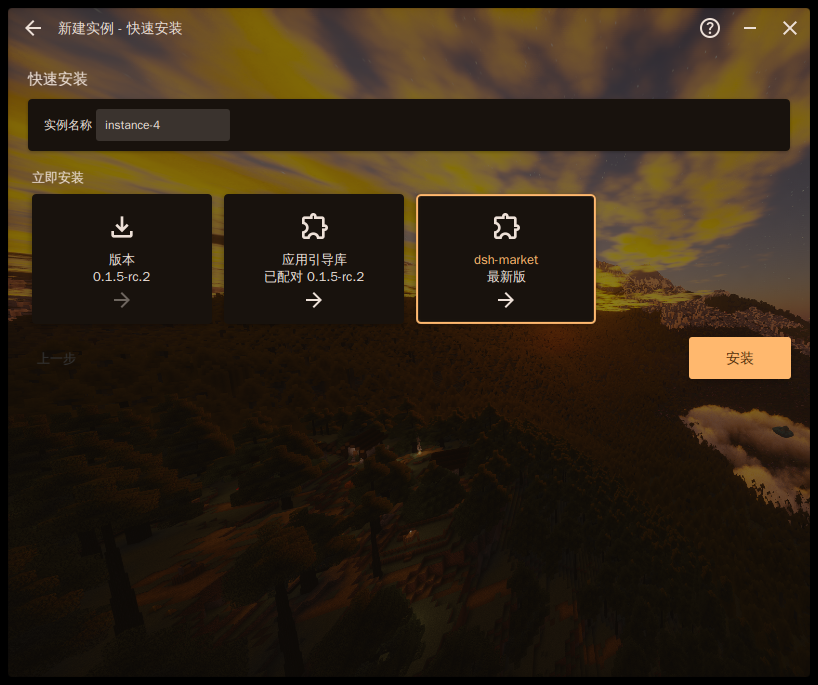
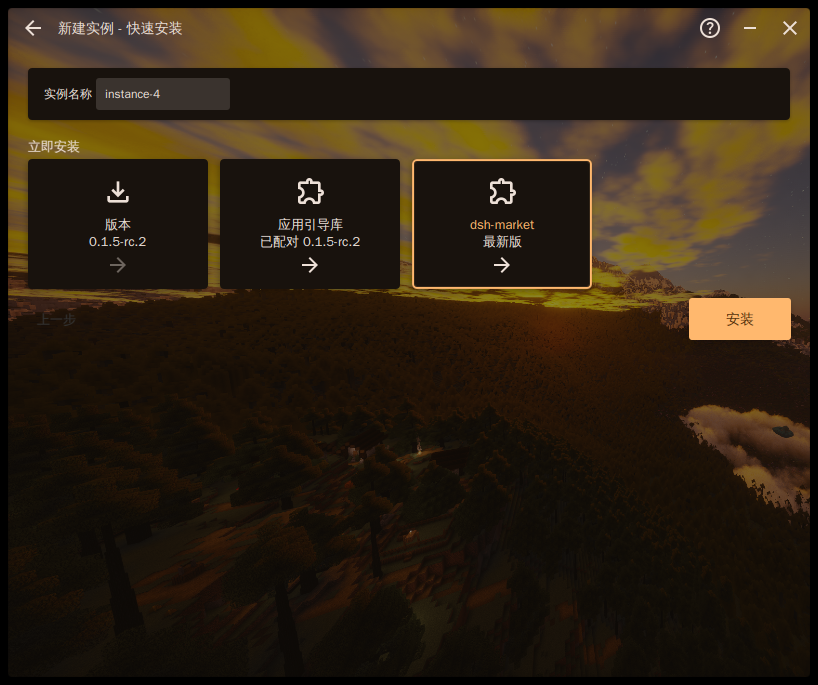
Sweep the inline styles, and remove a heading the original does not have
Seven setStyle calls, checked against the original one at a time.

Two of them are the original's, word for word: the launch pane's labels at
sixteen and twelve, and the runtime badge's background, radius and size. Those
stay.

The wizard pages' headings do not. The original's install pages have no heading
of their own — the window's title bar names the step, and the page begins with
its first control. A fifteen-pixel bold label above it said the same thing a
second time in a style chosen here. Two are gone, and the third, on the preset
chooser, names the preset rather than the step and stays.

The preset section's heading was a label styled bold with its own padding. The
original has a mechanism for a section heading, and a hand-styled label matches
its size, colour and padding only approximately. It uses the mechanism now.

Checked: the create page opens with its name row, the section heading above the
cards is the same one the settings pages use, and nothing else on the page is
styled inline.

Changed region(s): [[0.0306, 0.092, 0.978, 0.4905], [0.8252, 0.4292, 0.978, 0.5518]]

diff --git a/src/main/java/org/jackhuang/hmcl/ui/dsh/install/QuickInstallPage.java b/src/main/java/org/jackhuang/hmcl/ui/dsh/install/QuickInstallPage.java
@@ -113,14 +113,12 @@ public final class QuickInstallPage extends ScrollPane implements WizardPage {
         setContent(root);
         FXUtils.smoothScrolling(this);
 
-        Label title = new Label(i18n("dsh.install.step.quick"));
-        title.setStyle("-fx-font-size: 15px; -fx-font-weight: bold;");
-
         // Seed the recommendations before the cards are built, so they render
         // the same state the wizard will install.
         seedDefaultChoices();
 
-        root.getChildren().addAll(title, buildInstanceList(), buildPresetList(), buildFooter());
+        // No in-page heading: the window's title bar names the step.
+        root.getChildren().addAll(buildInstanceList(), buildPresetList(), buildFooter());
         VBox.setVgrow(root, Priority.ALWAYS);
 
         applyDefaults();
@@ -315,14 +313,16 @@ public final class QuickInstallPage extends ScrollPane implements WizardPage {
     ///
     /// @return the assembled section
     private VBox buildPresetList() {
-        Label header = new Label(i18n("dsh.install.presets"));
-        header.setStyle("-fx-font-weight: bold;");
-        header.setPadding(new Insets(8, 0, 0, 4));
+        // The original's section heading, not a label styled to look like one:
+        // the class carries the size, colour and padding the interface uses for
+        // a heading, and a hand-styled label matches none of them exactly.
+        Node header = ComponentList.createComponentListTitle(i18n("dsh.install.presets"));
 
+        // Cards sit twelve apart with nothing around the grid; the surrounding
+        // spacing is the page's, not the grid's.
         FlowPane grid = new FlowPane();
         grid.setHgap(12);
         grid.setVgap(12);
-        grid.setPadding(new Insets(4));
 
         Map<String, String> choices = choices();
         // The version leads the grid, as the game does in the original. It is

diff --git a/src/main/java/org/jackhuang/hmcl/ui/dsh/install/VersionSelectPage.java b/src/main/java/org/jackhuang/hmcl/ui/dsh/install/VersionSelectPage.java
@@ -126,9 +126,6 @@ public final class VersionSelectPage extends VBox implements WizardPage {
         setPadding(new Insets(20));
         setAlignment(Pos.TOP_LEFT);
 
-        Label title = new Label(i18n("dsh.install.step.version"));
-        title.setStyle("-fx-font-size: 15px; -fx-font-weight: bold;");
-
         List<DshVersion> installed = DshVersionManager.listInstalled();
 
         ComponentList installedList = new ComponentList();
@@ -204,7 +201,9 @@ public final class VersionSelectPage extends VBox implements WizardPage {
         FXUtils.smoothScrolling(scroll);
         VBox.setVgrow(scroll, Priority.ALWAYS);
 
-        getChildren().setAll(title, filterRow, scroll, buildFooter());
+        // No in-page heading: the original's install pages have none, and the
+        // window's own title bar already names the step.
+        getChildren().setAll(filterRow, scroll, buildFooter());
 
         loadRemote(installed);
     }

diff --git a/CONTRIBUTING.md b/CONTRIBUTING.md
@@ -259,6 +259,17 @@ ComponentList.add(child)
 **判定方法**：找内容卡片或第一行内容的左缘 x 坐标 —— 应当是 10~20，
 若是 200 多就是这条。
 
+### 内联 setStyle 是「差不多」的高发区
+
+原版界面里**几乎没有内联样式** —— `grep 'fx-font-size: 15px'` 在整个 HMCL UI 里是空的。
+样式要么走 CSS 类，要么走 `ComponentList.createComponentListTitle(...)` 这类**机制**。
+
+我自造的 `Label + setStyle("-fx-font-size: 15px; -fx-font-weight: bold;")` 做了两件错事：
+1. 造了一个原版没有的**页内标题**（向导页标题在窗口标题栏里，页面内没有）
+2. 用**手写样式**冒充章节标题，而原版有专门的机制，字号/颜色/内边距都不同
+
+**每次写 `setStyle` 前先 grep 原版有没有对应机制。**
+
 ### 图标尺寸交给 CSS，不要硬编码
 
 `newToggleButton4(svg)` 用的是 `svg.createIcon()`（**不给尺寸**），
